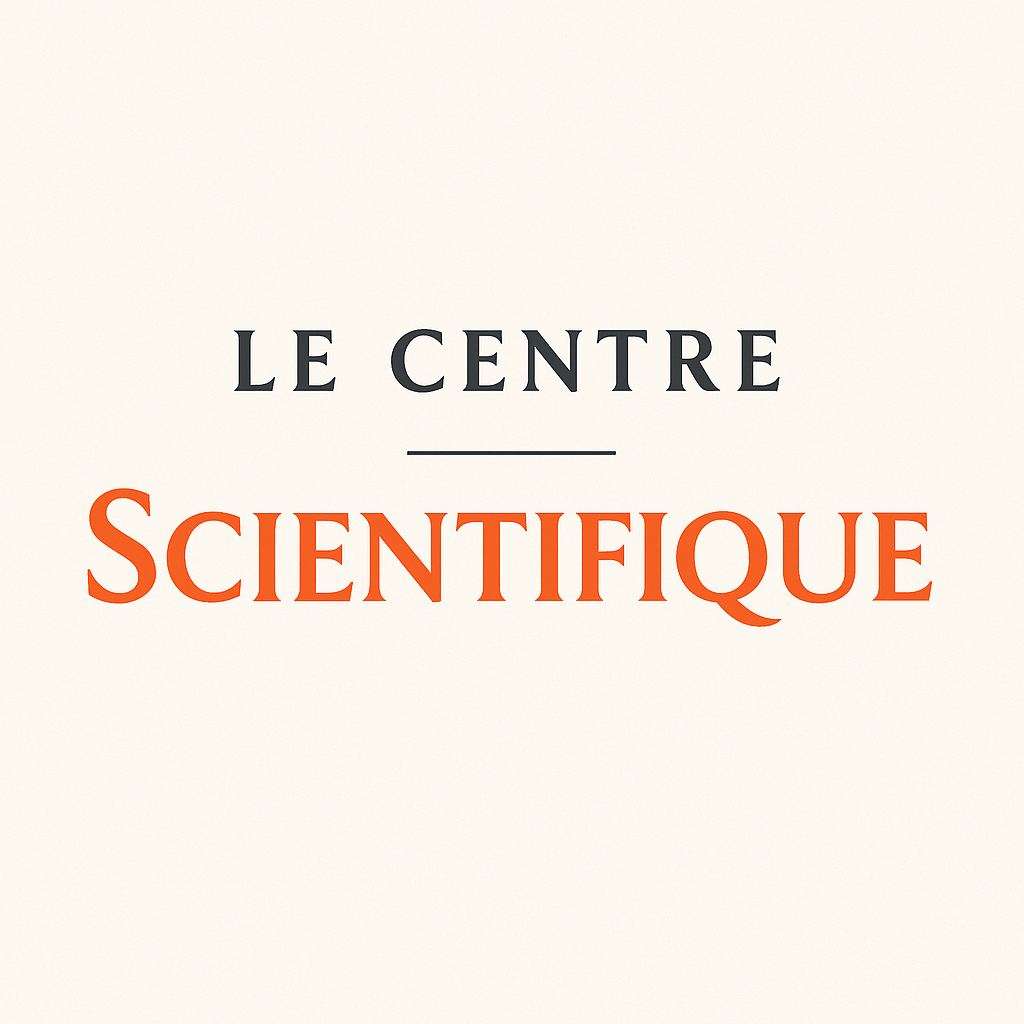
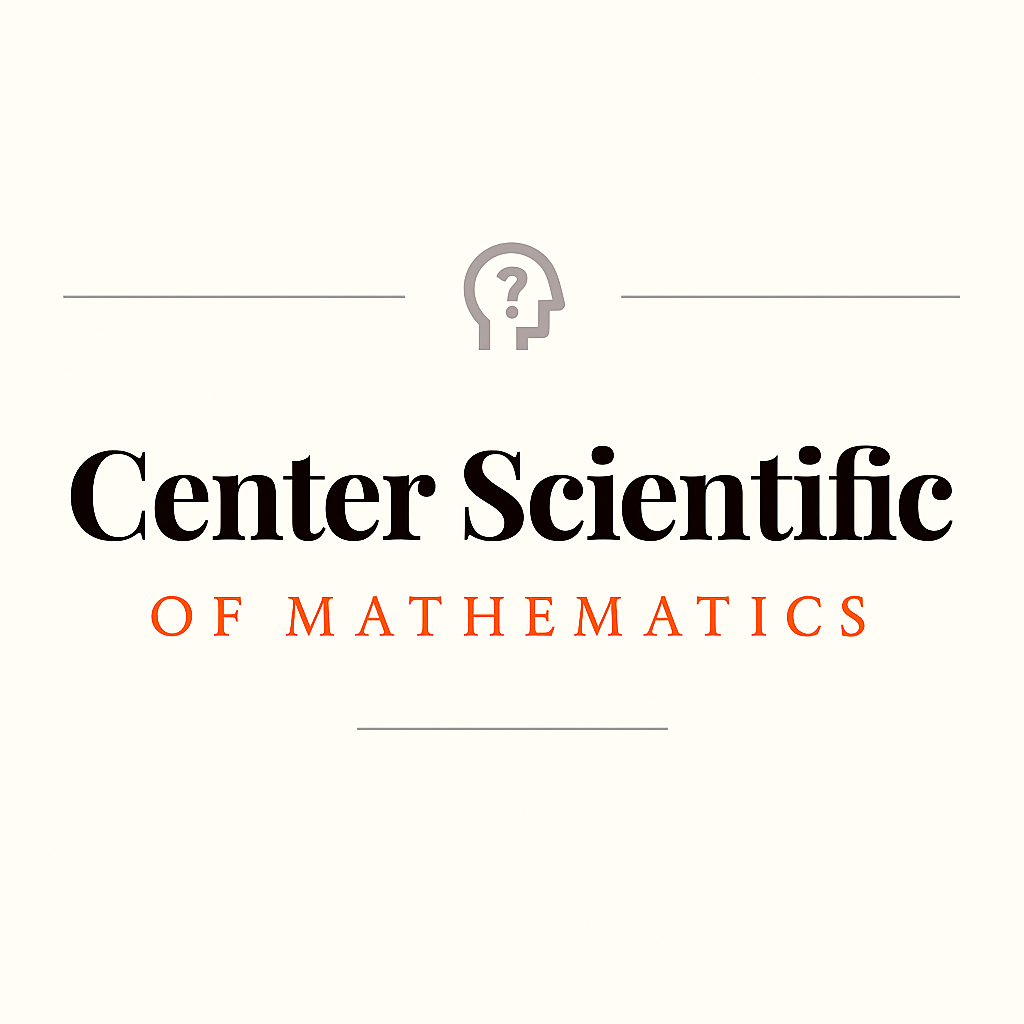
first commit

Changed region(s): [[0.0625, 0.4375, 0.9375, 0.625], [0.375, 0.2188, 0.75, 0.4062], [0.2188, 0.3125, 0.3438, 0.4062]]

diff --git a/components/GlobalActionButtons.tsx b/components/GlobalActionButtons.tsx
@@ -129,77 +129,89 @@ const GlobalActionButtons: React.FC = () => {
     return (
         <>
             {/* Desktop Action Buttons */}
-            <div className="fixed top-5 right-5 z-40 hidden sm:flex items-center gap-2">
-                <div className="group relative">
+            <div className="fixed top-5 right-5 z-40 hidden sm:flex items-center gap-3">
+                <div className="group relative flex items-center">
                     <button 
                         onClick={handleOpenNotifications}
-                        className="w-12 h-12 rounded-full flex items-center justify-center bg-surface/50 hover:bg-surface border border-border/70 transition-all duration-200"
+                        className="w-12 h-12 rounded-full flex items-center justify-center bg-surface/80 backdrop-blur-md border border-border/70 text-text-secondary hover:text-primary hover:scale-110 hover:shadow-lg focus:outline-none focus:ring-2 focus:ring-primary/50 transition-all duration-200"
                         aria-label="Notifications"
                     >
-                        <span className="material-symbols-outlined text-text-secondary !text-xl group-hover:text-primary transition-colors">notifications</span>
+                        <span className="material-symbols-outlined !text-xl">notifications</span>
                         {unreadNotificationsCount > 0 && (
-                            <span className="absolute -top-1 -right-1 flex h-5 w-5 items-center justify-center rounded-full bg-error text-white text-xs font-bold">
-                                {unreadNotificationsCount}
+                            <span className="absolute -top-1 -right-1 flex h-5 w-5">
+                                <span className="absolute inline-flex h-full w-full animate-ping rounded-full bg-error opacity-75"></span>
+                                <span className="relative inline-flex h-5 w-5 items-center justify-center rounded-full bg-error text-white text-xs font-bold">
+                                    {unreadNotificationsCount}
+                                </span>
                             </span>
                         )}
                     </button>
+                    <span className="absolute left-1/2 -translate-x-1/2 top-full mt-2 w-max rounded-md bg-text/90 px-3 py-1.5 text-xs font-semibold text-background/90 opacity-0 group-hover:opacity-100 transition-opacity duration-200 pointer-events-none">
+                        Notifications
+                    </span>
                     <NotificationCenter 
                         isOpen={isNotificationCenterOpen} 
                         onClose={() => setNotificationCenterOpen(false)}
                         notifications={allNotifications}
                     />
                 </div>
-                <div className="group relative">
+                <div className="group relative flex items-center">
                     <button 
                         onClick={() => setOrientationModalOpen(true)}
-                        className="w-12 h-12 rounded-full flex items-center justify-center bg-surface/50 hover:bg-surface border border-border/70 transition-all duration-200"
+                        className="w-12 h-12 rounded-full flex items-center justify-center bg-surface/80 backdrop-blur-md border border-border/70 text-text-secondary hover:text-primary hover:scale-110 hover:shadow-lg focus:outline-none focus:ring-2 focus:ring-primary/50 transition-all duration-200"
                         aria-label="Programme d'orientation"
                     >
-                        <span className="material-symbols-outlined text-text-secondary !text-xl group-hover:text-primary transition-colors">explore</span>
+                        <span className="material-symbols-outlined !text-xl">explore</span>
                     </button>
+                    <span className="absolute left-1/2 -translate-x-1/2 top-full mt-2 w-max rounded-md bg-text/90 px-3 py-1.5 text-xs font-semibold text-background/90 opacity-0 group-hover:opacity-100 transition-opacity duration-200 pointer-events-none">
+                        Programme
+                    </span>
                 </div>
-                <div className="group relative">
+                <div className="group relative flex items-center">
                     <button 
                         onClick={handleHelpClick}
-                        className="w-12 h-12 rounded-full flex items-center justify-center bg-surface/50 hover:bg-surface border border-border/70 transition-all duration-200"
+                        className="w-12 h-12 rounded-full flex items-center justify-center bg-surface/80 backdrop-blur-md border border-border/70 text-text-secondary hover:text-primary hover:scale-110 hover:shadow-lg focus:outline-none focus:ring-2 focus:ring-primary/50 transition-all duration-200"
                         aria-label="Aide et support"
                     >
-                        <span className="material-symbols-outlined text-text-secondary !text-xl group-hover:text-primary transition-colors">help_outline</span>
+                        <span className="material-symbols-outlined !text-xl">help_outline</span>
                     </button>
+                     <span className="absolute left-1/2 -translate-x-1/2 top-full mt-2 w-max rounded-md bg-text/90 px-3 py-1.5 text-xs font-semibold text-background/90 opacity-0 group-hover:opacity-100 transition-opacity duration-200 pointer-events-none">
+                        Aide
+                    </span>
                 </div>
             </div>
             
             {/* Mobile Bottom Navigation */}
-            <div className="sm:hidden fixed bottom-0 left-0 right-0 bg-surface/90 backdrop-blur-sm border-t border-border z-40 shadow-claude">
+            <div className="sm:hidden fixed bottom-0 left-0 right-0 bg-surface/80 backdrop-blur-lg border-t border-border/70 z-40">
                 <nav className="flex justify-around items-center h-16">
                     <button
                         onClick={handleOpenNotifications}
-                        className="relative flex-1 flex flex-col items-center justify-center p-2 text-text-secondary hover:text-primary transition-colors"
+                        className="relative flex-1 flex flex-col items-center justify-center p-2 text-text-secondary hover:text-primary focus:text-primary focus:outline-none transition-all duration-200 active:scale-95"
                         aria-label="Notifications"
                     >
                          {unreadNotificationsCount > 0 && (
-                            <span className="absolute top-2 right-1/2 translate-x-4 flex h-5 w-5 items-center justify-center rounded-full bg-error text-white text-[10px] font-bold">
+                            <span className="absolute top-1.5 right-1/2 translate-x-5 flex h-5 w-5 items-center justify-center rounded-full bg-error text-white text-[10px] font-bold ring-2 ring-surface">
                                 {unreadNotificationsCount}
                             </span>
                         )}
-                        <span className="material-symbols-outlined !text-[24px]">notifications</span>
-                        <span className="text-xs font-medium mt-0.5">Notifications</span>
+                        <span className="material-symbols-outlined !text-[26px]">notifications</span>
+                        <span className="text-xs font-medium mt-0.5 font-button">Notifications</span>
                     </button>
                      <button
                         onClick={() => setOrientationModalOpen(true)}
-                        className="flex-1 flex flex-col items-center justify-center p-2 text-text-secondary hover:text-primary transition-colors"
+                        className="flex-1 flex flex-col items-center justify-center p-2 text-text-secondary hover:text-primary focus:text-primary focus:outline-none transition-all duration-200 active:scale-95"
                         aria-label="Programme d'orientation"
                     >
-                        <span className="material-symbols-outlined !text-[24px]">explore</span>
-                        <span className="text-xs font-medium mt-0.5">Programme</span>
+                        <span className="material-symbols-outlined !text-[26px]">explore</span>
+                        <span className="text-xs font-medium mt-0.5 font-button">Programme</span>
                     </button>
                     <button
                         onClick={handleHelpClick}
-                        className="flex-1 flex flex-col items-center justify-center p-2 text-text-secondary hover:text-primary transition-colors"
+                        className="flex-1 flex flex-col items-center justify-center p-2 text-text-secondary hover:text-primary focus:text-primary focus:outline-none transition-all duration-200 active:scale-95"
                         aria-label="Aide et support"
                     >
-                        <span className="material-symbols-outlined !text-[24px]">help_outline</span>
-                        <span className="text-xs font-medium mt-0.5">Aide</span>
+                        <span className="material-symbols-outlined !text-[26px]">help_outline</span>
+                        <span className="text-xs font-medium mt-0.5 font-button">Aide</span>
                     </button>
                 </nav>
             </div>

diff --git a/components/views/ChapterHubView.tsx b/components/views/ChapterHubView.tsx
@@ -188,7 +188,6 @@ const ChapterHubView: React.FC = () => {
                 form.appendChild(input);
             };
     
-            // --- FormSubmit Config ---
             addHiddenField('_template', 'table');
             addHiddenField('_captcha', 'false');
             addHiddenField('_next', window.location.href);
@@ -196,42 +195,8 @@ const ChapterHubView: React.FC = () => {
             addHiddenField('_autoresponse', "Votre travail a été reçu avec succès. Nous l'examinerons dans les plus brefs délais.");
     
             const className = CLASS_OPTIONS.find(c => c.value === profile.classId)?.label || profile.classId;
-            const quizScorePercentage = totalQuestions > 0 ? (quiz.score / totalQuestions) * 100 : 100;
+            const quizScorePercentage = totalQuestions > 0 ? (quiz.score / totalQuestions) * 100 : 0;
             
-            const formatDuration = (seconds: number | undefined) => {
-                if (typeof seconds !== 'number' || seconds === 0) return 'Non enregistré';
-                if (seconds < 60) return `${seconds}s`;
-                const minutes = Math.floor(seconds / 60);
-                const remainingSeconds = seconds % 60;
-                return remainingSeconds > 0 ? `${minutes}m ${remainingSeconds}s` : `${minutes}m`;
-            };
-
-            const totalDuration = (quiz.duration || 0) + (chapterProgress.exercisesDuration || 0);
-
-            // --- Email Body Content (as a table) ---
-            addHiddenField('Élève', profile.name);
-            addHiddenField('Classe', className);
-            addHiddenField('Chapitre', chapter.chapter);
-            addHiddenField('Soumis le', new Date().toLocaleString('fr-FR', { dateStyle: 'full', timeStyle: 'short' }));
-            addHiddenField('Temps total estimé', formatDuration(totalDuration));
-
-            addHiddenField('--- Détails du Quiz ---', '---');
-            addHiddenField('Score Quiz', `${quiz.score} / ${totalQuestions} (${quizScorePercentage.toFixed(1)}%)`);
-            addHiddenField('Temps Quiz', formatDuration(quiz.duration));
-            addHiddenField('Indices utilisés', quiz.hintsUsed.toString());
-
-            addHiddenField('--- Détails des Exercices ---', '---');
-            addHiddenField('Exercices Évalués', `${evaluatedExercisesCount} / ${totalExercises}`);
-            addHiddenField('Temps Exercices', formatDuration(chapterProgress.exercisesDuration));
-
-            if (totalExercises > 0) {
-                chapter.exercises.forEach((ex, index) => {
-                    const feedback = chapterProgress.exercisesFeedback[ex.id] || 'Non évalué';
-                    addHiddenField(`Exercice ${index + 1}: ${ex.title}`, feedback);
-                });
-            }
-
-            // --- JSON Attachment for full data ---
             const quizAnswersWithIndices: { [qId: string]: number } = {};
             Object.keys(quiz.answers).forEach(qId => {
                 const question = chapter.quiz.find(q => q.id === qId);
@@ -255,7 +220,7 @@ const ChapterHubView: React.FC = () => {
                             answers: quizAnswersWithIndices,
                         },
                         exercisesFeedback: chapterProgress.exercisesFeedback,
-                        durationSeconds: totalDuration,
+                        durationSeconds: (chapterProgress.quiz.duration || 0) + (chapterProgress.exercisesDuration || 0),
                     }
                 ]
             };
@@ -306,7 +271,6 @@ const ChapterHubView: React.FC = () => {
             onClick: isQuizCompleted ? handleReviewQuiz : handleStartQuiz,
             buttonText: isChapterLocked ? 'Consulter' : isQuizCompleted ? 'Revoir' : answeredQuestionsCount > 0 ? 'Continuer' : 'Commencer',
             buttonVariant: isChapterLocked || isQuizCompleted ? 'secondary' : 'primary',
-            disabled: isChapterLocked,
         },
         {
             icon: 'assignment', title: 'Étape 2 : Les Exercices',
@@ -315,7 +279,7 @@ const ChapterHubView: React.FC = () => {
             progressPercent: exercisesProgressPercent,
             progressInfo: totalExercises > 0 ? `${evaluatedExercisesCount} / ${totalExercises}` : 'Aucun exercice',
             onClick: handleStartExercises,
-            disabled: !isQuizCompleted || isChapterLocked,
+            disabled: !isQuizCompleted,
             buttonText: isChapterLocked ? 'Consulter' : areAllExercisesDone ? 'Revoir' : evaluatedExercisesCount > 0 ? 'Continuer' : 'Commencer',
             buttonVariant: !isQuizCompleted ? 'disabled' : (areAllExercisesDone || isChapterLocked) ? 'secondary' : 'primary',
         },

diff --git a/components/views/LoginView.tsx b/components/views/LoginView.tsx
@@ -40,15 +40,29 @@ const LoginView: React.FC = () => {
         <div className="flex items-center justify-center min-h-screen animate-fadeIn p-4 bg-[#fbf9f1]">
             <div className="w-full max-w-md bg-[#fffcf5] border border-[#d7ccc8] rounded-lg shadow-xl shadow-[#5d4037]/10 p-8 sm:p-12">
                 
-                {/* Header: Logo */}
-                <div className="text-center mb-8 border-2 border-[#a1887f]/50 p-6 rounded-lg">
-                    <span className="font-brand text-5xl text-primary font-semibold tracking-tight">
-                        Le Centre
-                    </span>
-                    <div className="w-16 h-px bg-[#d7ccc8] my-2 mx-auto"></div>
-                    <span className="font-brand text-2xl tracking-widest text-[#a1887f]">
-                        Scientifique
-                    </span>
+                {/* Header: Elegant Logo */}
+                <div className="text-center mb-10 flex flex-col items-center">
+                    {/* Ornate Divider */}
+                    <div className="flex items-center gap-4 text-[#a1887f]/60 w-full max-w-xs">
+                        <div className="flex-1 h-px bg-gradient-to-l from-[#a1887f]/80 to-transparent"></div>
+                        <span className="material-symbols-outlined !text-4xl">
+                            psychology_alt
+                        </span>
+                        <div className="flex-1 h-px bg-gradient-to-r from-[#a1887f]/80 to-transparent"></div>
+                    </div>
+
+                    <h1 className="font-playfair text-4xl text-[#4e342e] font-bold mt-5 tracking-tight">
+                        Center Scientific
+                    </h1>
+                    <p className="font-garamond text-lg text-primary tracking-[0.25em] mt-1 uppercase">
+                        of{' '}
+                        <span className="inline-block animate-clipPathReveal">
+                            Mathematics
+                        </span>
+                    </p>
+
+                    {/* Ornate Divider */}
+                    <div className="w-24 h-px bg-[#d7ccc8] mt-5"></div>
                 </div>
 
                 {/* Welcome Message */}
@@ -132,7 +146,7 @@ const LoginView: React.FC = () => {
 
                     <button
                         type="submit"
-                        className="w-full px-4 py-3 font-brand tracking-widest text-base text-[#fbf9f1] bg-[#5d4037] rounded-md shadow-lg shadow-[#5d4037]/20 hover:bg-[#4e342e] hover:-translate-y-px transition-all duration-300 active:scale-[0.98] mt-4"
+                        className="w-full px-4 py-3 font-garamond font-semibold text-lg tracking-wider text-[#fbf9f1] bg-[#5d4037] rounded-md shadow-lg shadow-[#5d4037]/20 hover:bg-[#4e342e] hover:-translate-y-px transition-all duration-300 active:scale-[0.98] mt-4"
                     >
                         {hasPreloadedName ? 'Accéder à mon espace' : 'Commencer'}
                     </button>

diff --git a/index.html b/index.html
@@ -3,7 +3,7 @@
 <head>
     <meta charset="UTF-8" />
     <meta name="viewport" content="width=device-width, initial-scale=1.0" />
-    <title>Le centre scientifique</title>
+    <title>Center Scientific of Mathematics</title>
 
     <!-- PWA Meta Tags -->
     <meta name="theme-color" content="#FF6B35" />
@@ -58,27 +58,9 @@
                 pulse: { '0%, 100%': { opacity: 1, transform: 'scale(1)' }, '50%': { opacity: .9, transform: 'scale(1.02)' } },
                 ping: { '75%, 100%': { transform: 'scale(2)', opacity: 0 } },
                 cursorBlink: { '0%, 100%': { opacity: 1 }, '50%': { opacity: 0 } },
-                futuristicWelcome: {
-                    '0%': {
-                        opacity: 0,
-                        transform: 'translateY(20px) scale(0.95)',
-                        filter: 'blur(5px)',
-                    },
-                    '100%': {
-                        opacity: 1,
-                        transform: 'translateY(0) scale(1)',
-                        filter: 'blur(0)',
-                    }
-                },
-                nameReveal: {
-                    '0%': {
-                        opacity: 0,
-                        transform: 'translateY(10px)',
-                    },
-                    '100%': {
-                        opacity: 1,
-                        transform: 'translateY(0)',
-                    }
+                clipPathReveal: {
+                    '0%': { clipPath: 'polygon(0 0, 100% 0, 100% 0, 0 0)' },
+                    '100%': { clipPath: 'polygon(0 0, 100% 0, 100% 100%, 0 100%)' },
                 }
             },
             animation: {
@@ -88,8 +70,7 @@
                 pulse: 'pulse 2s cubic-bezier(0.4, 0, 0.6, 1) infinite',
                 ping: 'ping 1s cubic-bezier(0, 0, 0.2, 1) infinite',
                 cursorBlink: 'cursorBlink 1.2s step-end infinite',
-                futuristicWelcome: 'futuristicWelcome 0.8s cubic-bezier(0.25, 0.46, 0.45, 0.94) forwards',
-                nameReveal: 'nameReveal 1s cubic-bezier(0.25, 0.46, 0.45, 0.94) forwards'
+                clipPathReveal: 'clipPathReveal 1s cubic-bezier(0.4, 0, 0.2, 1) 0.5s forwards'
             },
           }
         }

diff --git a/components/ErrorBoundary.tsx b/components/ErrorBoundary.tsx
@@ -1,4 +1,4 @@
-import React, { Component, ErrorInfo, ReactNode } from 'react';
+import React, { ErrorInfo, ReactNode } from 'react';
 
 interface Props {
     children: ReactNode;
@@ -9,17 +9,20 @@ interface State {
     error: Error | null;
 }
 
-class ErrorBoundary extends Component<Props, State> {
-    public state: State = {
+class ErrorBoundary extends React.Component<Props, State> {
+    // FIX: Replaced the constructor with a class property for state initialization.
+    // This directly defines the `state` property on the class instance, resolving
+    // TypeScript errors where `this.state` and `this.props` were not being recognized.
+    state: State = {
         hasError: false,
         error: null,
     };
 
-    public static getDerivedStateFromError(error: Error): State {
+    static getDerivedStateFromError(error: Error): State {
         return { hasError: true, error };
     }
 
-    public componentDidCatch(error: Error, errorInfo: ErrorInfo) {
+    componentDidCatch(error: Error, errorInfo: ErrorInfo) {
         console.error("Uncaught error:", error, errorInfo);
         // Here you would typically log to an error reporting service
     }
@@ -29,7 +32,7 @@ class ErrorBoundary extends Component<Props, State> {
         window.location.reload();
     };
 
-    public render() {
+    render() {
         if (this.state.hasError) {
             return (
                 <div className="flex flex-col items-center justify-center min-h-screen p-4 bg-background text-text">

diff --git a/components/HelpModal.tsx b/components/HelpModal.tsx
@@ -9,7 +9,7 @@ interface HelpModalProps {
 const FrenchContent: React.FC = () => (
     <div className="space-y-5 text-text-secondary leading-relaxed">
         <div className="text-center mb-6">
-            <h3 className="text-xl font-bold text-text">Bienvenue au Centre Scientifique !</h3>
+            <h3 className="text-xl font-bold text-text">Bienvenue au center scientific of mathematics !</h3>
             <p>Votre centre scolaire interactif, ouvert 24h/24 et 7j/7 pour un apprentissage sans limites.</p>
         </div>
         
@@ -72,7 +72,7 @@ const FrenchContent: React.FC = () => (
 const ArabicContent: React.FC = () => (
     <div className="space-y-5 text-text-secondary leading-relaxed text-right" dir="rtl">
         <div className="text-center mb-6">
-            <h3 className="text-xl font-bold text-text">! مرحباً بكم في المركز العلمي</h3>
+            <h3 className="text-xl font-bold text-text">! مرحباً بكم في المركز العلمي للرياضيات</h3>
             <p>مركزكم الدراسي التفاعلي، مفتوح 24 ساعة طوال أيام الأسبوع لتعلم بلا حدود.</p>
         </div>
 

diff --git a/components/views/DashboardView.tsx b/components/views/DashboardView.tsx
@@ -387,9 +387,9 @@ const DashboardView: React.FC = () => {
                     {/* Ornement de fin */}
                     <footer className="text-center mt-16 mb-8">
                         <div className="flex flex-col items-center justify-center opacity-70">
-                            <span className="font-brand text-xs tracking-wider text-text-secondary">Le Centre</span>
+                            <span className="font-brand text-xs tracking-wider text-text-secondary">Center Scientific</span>
                             <div className="w-8 h-px bg-border-hover my-1.5"></div>
-                            <span className="font-brand text-2xl text-primary -mt-1">Scientifique</span>
+                            <span className="font-brand text-2xl text-primary -mt-1">of Mathematics</span>
                         </div>
                         <p className="text-xs text-text-secondary serif-text italic mt-4">
                             © {new Date().getFullYear()} - Votre parcours d'apprentissage interactif

diff --git a/sw.js b/sw.js
@@ -11,7 +11,7 @@ self.addEventListener('activate', event => {
     caches.keys().then(keyList => {
       // Supprimer tous les anciens caches de cette application
       return Promise.all(keyList.map(key => {
-        if (key.startsWith('le-centre-scientifique')) {
+        if (key.startsWith('center-scientific-of-mathematics')) {
           return caches.delete(key);
         }
       }));
